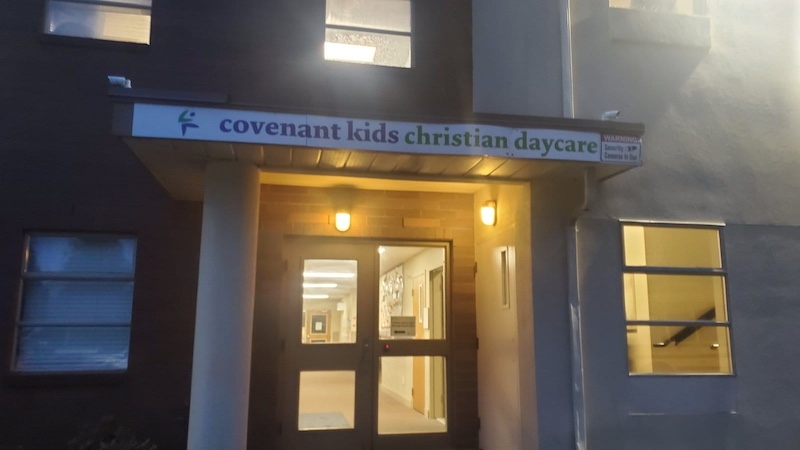
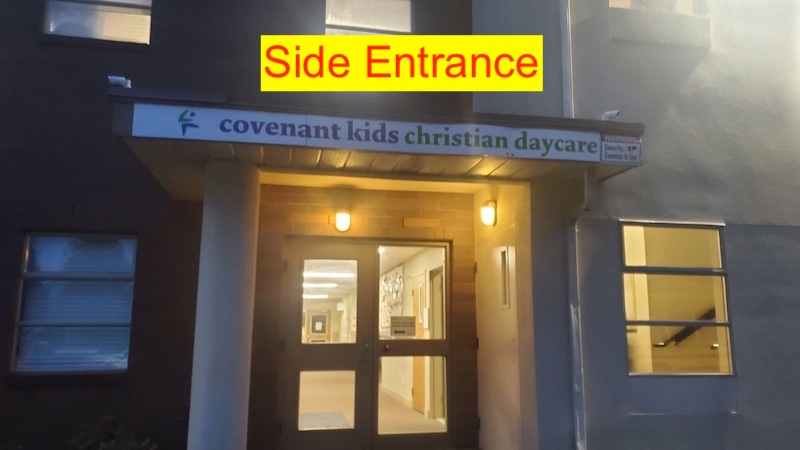
updated All Saints Day images

Changed region(s): [[0.3125, 0.0622, 0.6875, 0.2178]]

diff --git a/notify/2024/10/AllSaintsDay/index.html b/notify/2024/10/AllSaintsDay/index.html
@@ -3,45 +3,26 @@
 <head>
    <meta charset="UTF-8">
    <meta name="viewport" content="width=device-width, initial-scale=1.0">
-   <title>Fundraising for Our New Church: Natural Christmas Trees for Sale!</title>
+   <title>All Saints Day 2024</title>
 </head>
 <body>
    <div style="font-family: arial; width: 95%; margin: auto; font-size: larger;">
       <center>
-         <img src="https://our.stgeorge.ca/notify/2024/10/ChristmasTrees/DouglasFir.png" 
+         <img src="https://our.stgeorge.ca/notify/2024/10/AllSaintsDay/poster.jpg" 
             alt="Summer Nady Gift Distribution" 
-            style="width: 200px;"/>
+            style="width: 800px;"/>
       </center>
-      <p>
-         We are excited to announce that we are selling beautiful, natural Douglas Fir Christmas trees at great prices to raise funds for our new church. This is a wonderful opportunity to support our church community and enjoy a joyful Nativity season.
-      </p>
-      <p><b>Tree Type:</b> Douglas Fir </p>
-      <p style="font-weight: bold;">Price List:</p>
-      <table>
-         <tr>
-            <th style="width: 15%;text-align: center;">Size</th>
-            <th style="width: 15%;text-align: center;">Price</th>
-         </tr>
-         <tr>
-            <td style="text-align: center;">3-4 FT</td>
-            <td style="text-align: center;">$38</td>
-         </tr>
-         <tr>
-            <td style="text-align: center;">4-5 FT</td>
-            <td style="text-align: center;">$45</td>
-         </tr>
-         <tr>
-            <td style="text-align: center;">5-6 FT</td>
-            <td style="text-align: center;">$52</td>
-         </tr>
-         <tr>
-            <td style="text-align: center;">6-7 FT</td>
-            <td style="text-align: center;">$60</td>
-         </tr>
-      </table>
-      <p>To reserve your tree, contact Mina Fahim by email at <a href="mailto:merettmina@yahoo.com">merettmina@yahoo.com</a> 
-         or by text at 604-300-4235 before midnight on October 31, 2024. Tree pick-up will be after church on Sunday, November 17, 2024.</p>
-      <p>Thank you so much for your support. God bless your generous donation!</p>
+
+      <h3>Entering the church.</h3>
+      <p>Enter the church from the side entrance because the main entrance will be locked. </p>
+      <p>Please refer to the pictures below:</p>
+      <img src="https://our.stgeorge.ca/notify/2024/10/AllSaintsDay/parking.jpg" 
+         alt="Entering the church" 
+         style="width: 800px;"/>
+      <br><br>
+      <img src="https://our.stgeorge.ca/notify/2024/10/AllSaintsDay/entrance.jpg" 
+         alt="Entering the church" 
+         style="width: 800px;"/>
    </div>
 </body>
 </html>
